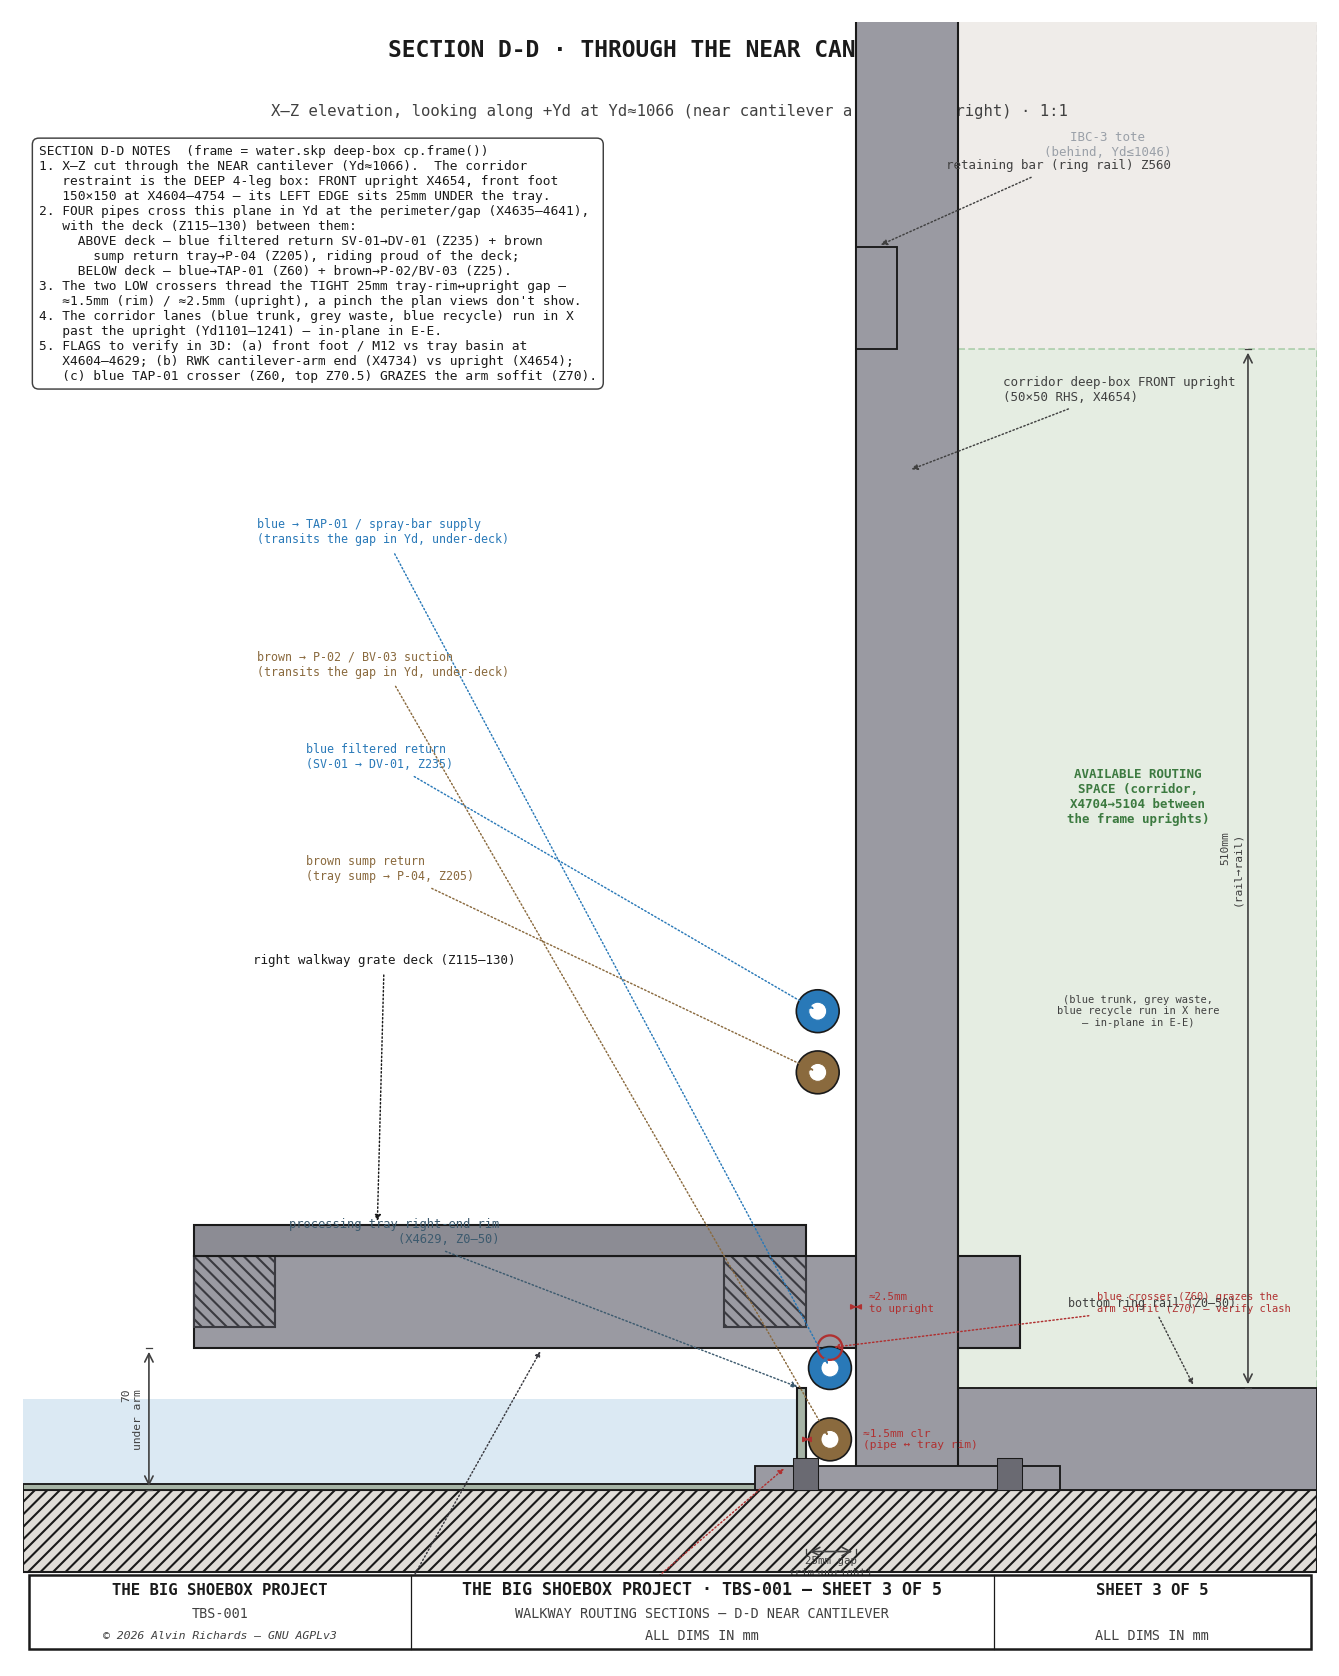
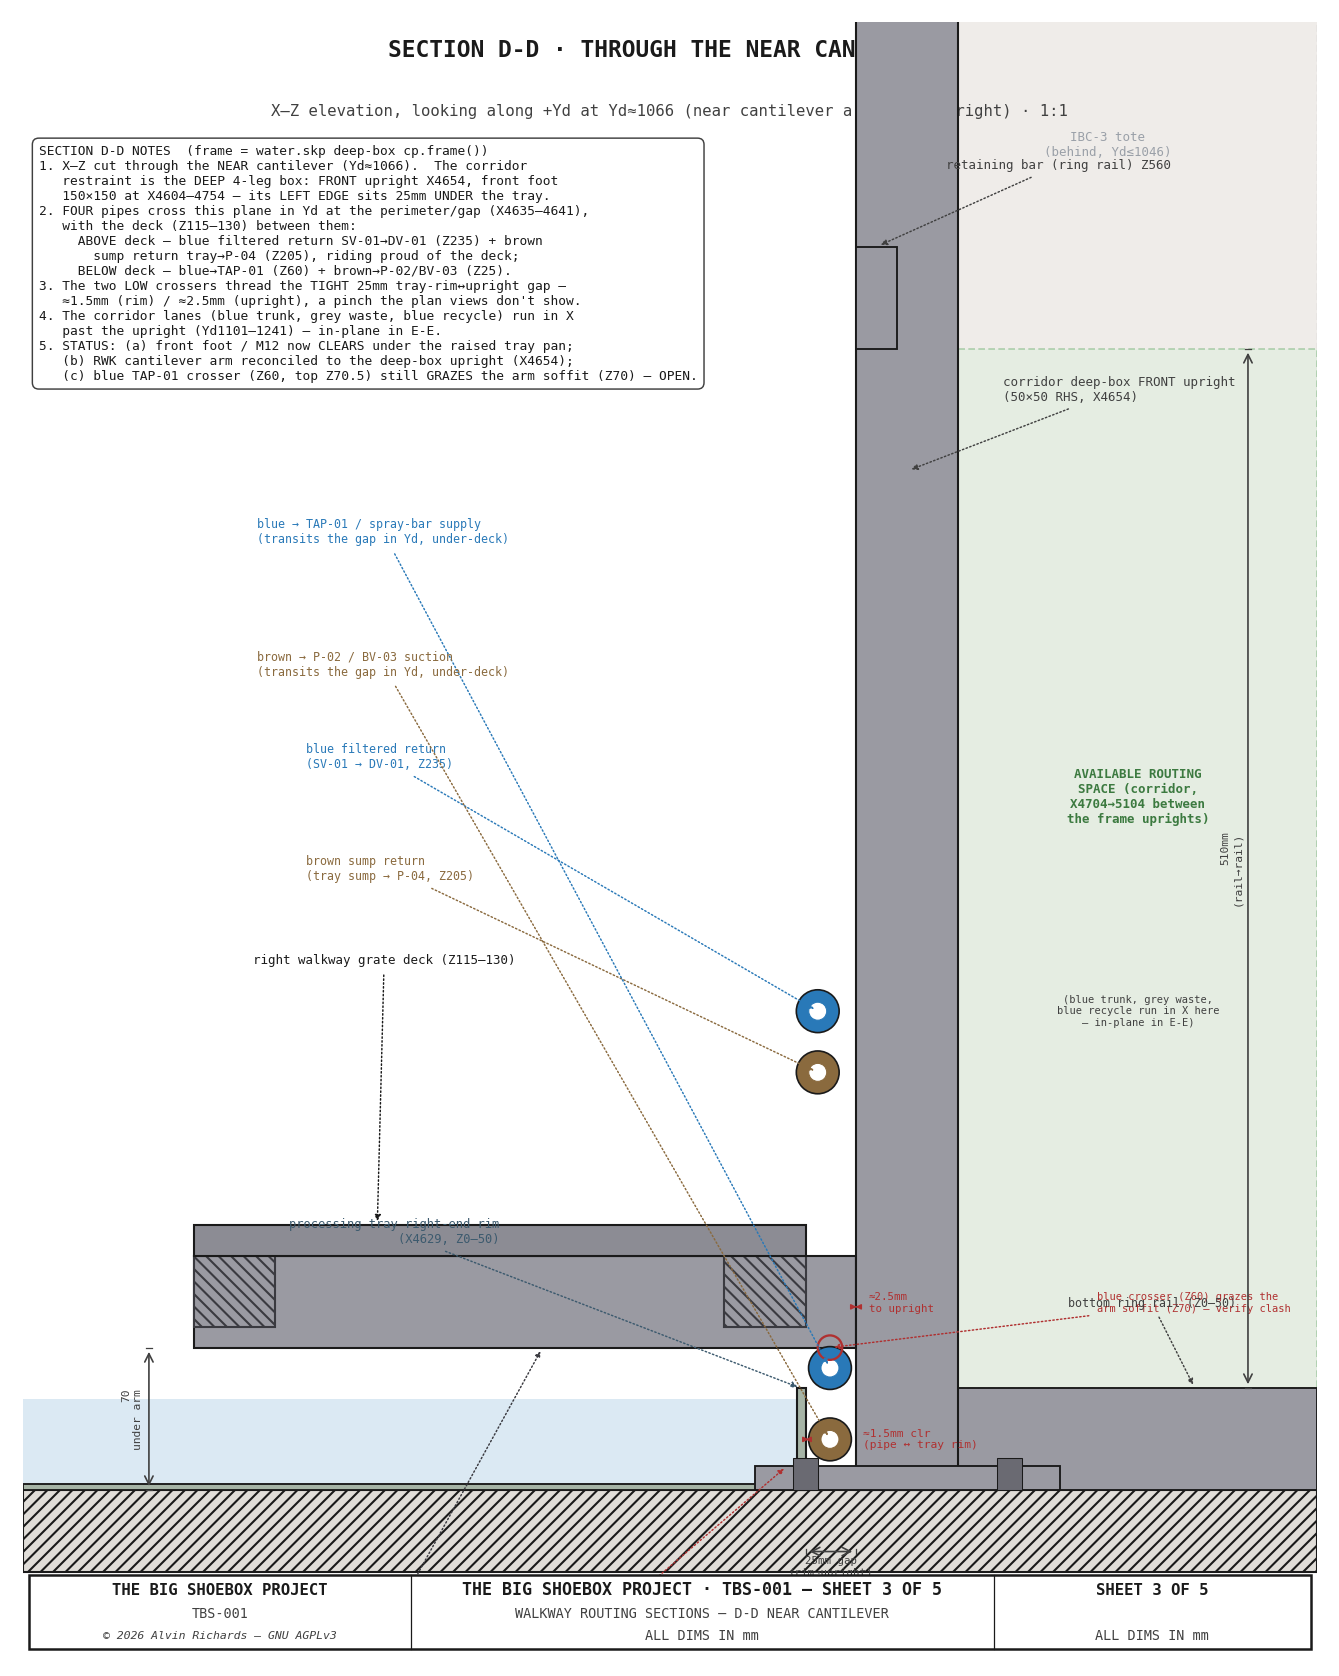
Reconcile overview + ibc-stack to the current water panels + flag 4 (RWK_X_UP)
Option B — the full water-layout + IBC-frame reconciliation.

overview + ibc-stack were rendering the OLD pre-corridor-refactor water layout (their
own equipment_panel/water_plumbing/water_hookups + hardcoded panel kit). Rewired both
generate_ruby() to REUSE the current water.skp builders (late import to break the
cycle): cp.frame / tote_restraint / rear_panel / equipment / plumbing / drains_ports +
pw.kit / other_equipment / tap01_supply. They now stay in sync with water.skp. The old
overview water functions are unused (kept for reference); ibc_rack() retained (cantilever
study still uses it). ibc-stack's stale panel-equipment label anchors removed.

Flag 4 (stale cantilever-arm reference) RESOLVED: RWK_X_UP 4734 -> 4654 (deep-box front
upright, = cp.FRONT_X). Cascaded: overview arms + walkway.skp (import RWK_X_UP),
walkway-sections D-D/F-F (ARM_X1 + notes), walkway_diagram arm root, and the X4734 refs
in equipment-layout / cantilever-study / routing-sections + the tbs_constants EQPANEL
comment. Generators verified; lint green. 2D regenerated (walkway-sections 3/5, walkway 3).

.skp re-sends pending (overview, ibc-stack, walkway). WIP on branch — do not merge.

diff --git a/src/models/generate_sketchup_model.py b/src/models/generate_sketchup_model.py
@@ -530,7 +530,7 @@ RWK_HL = 95                                           # half-lap line
 RWK_BEARER_W = 40
 RWK_BEARER_XS = (RWK_X_L, RWK_X_R - RWK_BEARER_W)      # 4329, 4589 — long-beam left edges
 RWK_BEARER_Z0 = RWK_ARM_TOP - 35                       # 80 — beam bottom
-RWK_X_UP = IBC_COL_X + 60                              # 4734 — IBC corridor upright X station
+RWK_X_UP = IBC_COL_X - 20                              # 4654 — deep-box FRONT upright (= cp.FRONT_X); reconciled from the stale +60/4734 portal (flag 4)
 RWK_UP_YDS = (CORRIDOR_YD_NEAR, CORRIDOR_YD_FAR - IBC_FRAME_RHS)   # 1046, 1266
 
 
@@ -949,15 +949,13 @@ def spray_bar():
 
 # ── Plumbing panel (pumps · filters · accumulator) ──────────────────────────
 #
-# TODO (2026-07-01): overview.skp's WATER/PLUMBING geometry is STALE — it still
-# renders the OLD pre-corridor-refactor layout.  The pinhole-wall-mount merge
-# (210f01cd, 2026-06-30) rebuilt the wet end into the split Corridor / Pinhole-Wall
-# plumbing panels in water.skp (generate_corridor_water_panel.py /
-# generate_pinhole_water_panel.py), but overview's own equipment_panel() /
-# water_hookups() / spray_bar_plumbing() / water_plumbing() were NEVER cascaded, so
-# re-sending overview reproduces the old design.  Cascade the current corridor/pinhole
-# panel layout into these functions (or import the panel builders) and re-send overview.
-# [carriage/tray-datum work of this branch left this untouched — separate task.]
+# RESOLVED (2026-07-01): overview + ibc-stack were rewired in generate_ruby() to reuse
+# the CURRENT water builders — cp.frame/tote_restraint/rear_panel/equipment/plumbing/
+# drains_ports + pw.kit/other_equipment/tap01_supply (the water.skp source) — so they
+# now render the split Corridor / Pinhole-Wall panel design and stay in sync with
+# water.skp.  The functions below (equipment_panel / water_hookups / spray_bar_plumbing
+# / water_plumbing) are the OLD pre-corridor-refactor layout and are now UNUSED (kept
+# for reference; safe to delete).  ibc_rack() is still used by the cantilever study.
 
 def equipment_panel():
     """18mm marine-ply panel in the IBC corridor carrying the wet end.
@@ -2526,6 +2524,10 @@ def water_plumbing():
 
 def generate_ruby():
     """Build the complete Ruby script for the Overview model."""
+    # Reuse the CURRENT water-system builders (water.skp source) so overview stays in
+    # sync with the corridor + pinhole-wall panel design (late import — cp/pw import ov).
+    import generate_corridor_water_panel as cp
+    import generate_pinhole_water_panel as pw
     comps = [
         component("Container Shell", "Shell", container_shell()),
         component("Walkways", "Walkways", walkways()),
@@ -2536,9 +2538,13 @@ def generate_ruby():
         component("FP Combined Corner Plates", "Combined Plate", fp_combined_corner_plates()),
         component("Panel & Pivot Axle", "Pivot Axle", panel_pivot()),
         component("Spray Bar", "Spray Bar", spray_bar()),
-        component("Plumbing Panel", "Plumbing Panel", equipment_panel()),
+        component("Corridor Frame (deep box)", "IBC Rack", cp.frame()),
+        component("IBC Tote Restraint", "IBC Rack", cp.tote_restraint()),
+        component("Corridor Rear Panel", "Plumbing Panel", cp.rear_panel()),
+        component("Corridor Equipment", "Plumbing Panel", cp.equipment()),
+        component("Pinhole-Wall Kit", "Plumbing Panel", pw.kit()),
+        component("Pinhole-Wall Equipment", "Plumbing Panel", pw.other_equipment()),
         component("IBC Stack", "IBC Stack", ibc_stack()),
-        component("IBC Rack", "IBC Rack", ibc_rack()),
         component("Light-Trap Drum", "Light Trap", light_trap_drum()),
         component("Light-Trap Bay", "Light Trap", light_trap_bay()),
         component("Electrical", "Electrical", electrical()),
@@ -2548,10 +2554,10 @@ def generate_ruby():
         component("Light Seal & Hinges", "Light Seal", light_seal()),
         component("Lighting & Wiring", "Lighting", lighting_wiring()),
         component("Evap Cooler & Duct", "Evap Cooler", evap_cooler()),
-        component("Water/Waste Hookups", "Water Hookups", water_hookups()),
+        component("Corridor Drains + X-ports", "Water Hookups", cp.drains_ports()),
         component("Fans A & B", "Fans", fans()),
-        component("Spray Bar Plumbing", "Spray Bar", spray_bar_plumbing()),
-        component("Water Plumbing", "Water Plumbing", water_plumbing()),
+        component("TAP-01 + Spray Supply", "Spray Bar", pw.tap01_supply()),
+        component("Corridor Plumbing", "Water Plumbing", cp.plumbing()),
     ]
     body = '\n'.join(comps)
 

diff --git a/src/models/generate_ibc_model.py b/src/models/generate_ibc_model.py
@@ -52,20 +52,10 @@ IBC_POINT_LABELS = [
     (5893, 1181, 2250, "X1 (fresh fill)",            1007, -400,  450),
     (5893, 1181,  400, "X3 (Brown drain-out)",       1007, -500,  -50),
     (5893, 1181,  200, "X4 (Waste drain-out)",       1007, -500, -100),
-    # ── Wet-end panel equipment (v2: panel moved FORWARD to X≈4814-4854) — pulled
-    #    out the CONTAINER (front) side, laid out the way the panel reads: two pump
-    #    columns + three filters below (no pipes/valves).  Left column (Yd 1109): ──
-    (4814, 1109, 2021, "ACC-01 (accumulator)",       -227, -1759,  329),
-    (4814, 1109, 1687, "P-04 (Tray-drain pump)",     -240, -1759,  263),
-    (4814, 1109, 1429, "P-01 (Blue-feed pump)",      -240, -1759,  121),
-    # Right column (Yd 1253):
-    (4854, 1253, 2055, "P-05 (Brown drain pump)",     260, -1903,  295),
-    (4854, 1253, 1687, "P-03 (Waste-evac pump)",      260, -1903,  263),
-    (4854, 1253, 1429, "P-02 (Brown pump)",           260, -1903,  121),
-    # Filters (centered below the pumps):
-    (4809, 1181, 1110, "F3 (GAC filter)",               5, -1831,   40),
-    (4809, 1181,  740, "F2 (5um filter)",               5, -1831,   60),
-    (4809, 1181,  370, "F1 (50um filter)",              5, -1831,   80),
+    # NB: the wet-end panel-equipment label anchors (P-01..P-05, F1-F3, ACC-01) were
+    # removed with the corridor/pinhole-panel rewire (2026-07-01) — their old positions
+    # no longer match cp.equipment()/pw.kit(). Re-anchor to the current part centers if
+    # panel-equipment callouts are wanted again.
 ]
 
 
@@ -125,13 +115,21 @@ def spray_wall_trunk():
 
 def generate_ruby():
     """Build the Ruby script for the IBC Stack model, reusing Overview parts."""
+    # Current water-system builders (water.skp source) — corridor + pinhole-wall panels
+    import generate_corridor_water_panel as cp
+    import generate_pinhole_water_panel as pw
     comps = [
         ov.component("Container (ghost)", "Context", context()),
         ov.component("IBC Tanks", "IBC Tanks", ov.ibc_stack(alpha=0.25)),
-        ov.component("IBC Frame", "IBC Frame", ov.ibc_rack()),
-        ov.component("Plumbing Panel", "Plumbing & Panel", ov.equipment_panel()),
-        ov.component("Water Plumbing", "Plumbing & Panel", ov.water_plumbing() + "\n" + spray_wall_trunk()),
-        ov.component("Water/Waste Hookups", "Plumbing & Panel", ov.water_hookups()),
+        ov.component("Corridor Frame (deep box)", "IBC Frame", cp.frame()),
+        ov.component("IBC Tote Restraint", "IBC Frame", cp.tote_restraint()),
+        ov.component("Corridor Rear Panel", "Plumbing & Panel", cp.rear_panel()),
+        ov.component("Corridor Equipment", "Plumbing & Panel", cp.equipment()),
+        ov.component("Pinhole-Wall Kit", "Plumbing & Panel", pw.kit()),
+        ov.component("Pinhole-Wall Equipment", "Plumbing & Panel", pw.other_equipment()),
+        ov.component("Corridor Plumbing", "Plumbing & Panel", cp.plumbing()),
+        ov.component("Corridor Drains + X-ports", "Plumbing & Panel", cp.drains_ports()),
+        ov.component("TAP-01 + Spray Supply", "Plumbing & Panel", pw.tap01_supply()),
         ov.component("Walkway Cantilever Arms", "Walkway Cantilever",
                      '\n'.join(ov.ibc_cantilever_arms())),
     ]

diff --git a/src/generators/generate_walkway_sections.py b/src/generators/generate_walkway_sections.py
@@ -64,7 +64,7 @@ GAPX    = PROC_TRAY_X_R + 12                  # 4641 — turn-up in the tray↔I
 # ── Cantilever-zone members (diagram-of-record detail dims, verified against live water.skp) ──
 # water.skp restraint = cp.frame() DEEP 4-leg box: FRONT upright X4654, front foot X4604-4754
 # (the foot's left edge sits 25mm UNDER the tray right edge X4629).
-ARM_X0, ARM_X1, ARM_ZB, ARM_ZT = WALKWAY_RIGHT_X, 4734, 70, 115   # RWK cantilever arm (reaches X4734)
+ARM_X0, ARM_X1, ARM_ZB, ARM_ZT = WALKWAY_RIGHT_X, 4654, 70, 115   # RWK cantilever arm — clamps to the deep-box upright X4654 (reconciled from 4734)
 UP_X0, UP_X1 = 4654, 4704            # corridor deep-box FRONT upright (50×50 RHS)
 FOOT_X0, FOOT_X1, FOOT_ZT = 4604, 4754, 12                        # front floor foot 150×150×12 — EXTENDS under the tray
 M12_XS = [4629, 4729]                # 4× M12 on 100 PCD (cx 4679 ± 50)
@@ -359,7 +359,7 @@ def sheet3():
         _rect(ax, bx, 80, BEAM_W, DECK_ZB - 80, C_STEEL, ec="#3A3A40", lw=1.0, z0=6, hatch="\\\\\\\\")
     _rect(ax, WALKWAY_RIGHT_X, DECK_ZB, WALKWAY_RIGHT_W, WALKWAY_GRATE_T, C_GRATE, lw=1.0, z0=7)  # deck
     leader(ax, 4500, ARM_ZB, 4358, -58,
-           "walkway support: cantilever arm (Z70–115)\n+ long bearers (Z80–115, hatched)\n[arm reaches X4734 — NB vs upright X4654]",
+           "walkway support: cantilever arm (Z70–115)\n+ long bearers (Z80–115, hatched)\n[arm clamps to the deep-box upright X4654]",
            color="#3A3A40", fs=5.2, ha="left", va="top", arrow_style="-|>", font=FONT)
     leader(ax, WALKWAY_RIGHT_X + 90, WALKWAY_H, 4358, 260, "right walkway grate deck (Z115–130)",
            color=C_OUT, fs=6, ha="left", va="center", arrow_style="-|>", font=FONT)
@@ -431,9 +431,9 @@ def sheet3():
         "   ≈1.5mm (rim) / ≈2.5mm (upright), a pinch the plan views don't show.\n"
         "4. The corridor lanes (blue trunk, grey waste, blue recycle) run in X\n"
         "   past the upright (Yd1101–1241) — in-plane in E-E.\n"
-        "5. FLAGS to verify in 3D: (a) front foot / M12 vs tray basin at\n"
-        "   X4604–4629; (b) RWK cantilever-arm end (X4734) vs upright (X4654);\n"
-        "   (c) blue TAP-01 crosser (Z60, top Z70.5) GRAZES the arm soffit (Z70)."
+        "5. STATUS: (a) front foot / M12 now CLEARS under the raised tray pan;\n"
+        "   (b) RWK cantilever arm reconciled to the deep-box upright (X4654);\n"
+        "   (c) blue TAP-01 crosser (Z60, top Z70.5) still GRAZES the arm soffit (Z70) — OPEN."
     )
     ax.text(X_LO + 8, Z_HI - 60, notes, fontsize=6.2, ha="left", va="top", color=C_OUT,
             family="monospace", zorder=15,

diff --git a/src/generators/tbs_constants.py b/src/generators/tbs_constants.py
@@ -397,7 +397,7 @@ MRBF_D, MRBF_H = 40, 38  # terminal-mount MRBF main fuse (on the battery + post)
 # Contains pumps (P-01, P-02, P-04), ACC-01, and 3× Big Blue filter housings.
 # Pumps on near-wall side (Yd=1046–1173), filters on far-wall side (Yd=1186–1316).
 # Filters at bottom of panel (Z=200–1280), pumps at top (Z=1320–2220).
-EQPANEL_X       = 4874    # panel face X (mm) — ibc-reconfig-v2: moved FORWARD (was 5240) to the corridor front for walkway/operator reach-in access; ply X=4874–4892, equipment hangs toward -X (tip ~4744, clear of the film rail X=4649). Mounts on the front-portal frame (~X4734).
+EQPANEL_X       = 4874    # panel face X (mm) — ibc-reconfig-v2: moved FORWARD (was 5240) to the corridor front for walkway/operator reach-in access; ply X=4874–4892, equipment hangs toward -X (tip ~4744, clear of the film rail X=4649). Mounts on the deep-box corridor frame (front upright ~X4654).
 EQPANEL_T       = 18      # panel thickness in X (mm) — ply extends toward sealed end (X=4874–4892)
 EQPANEL_Z_LO    = 250     # panel bottom Z (mm) — keeps ~120mm above the raised walkway deck [+50 raise; was 200]
 EQPANEL_Z_HI    = 2310    # panel top Z (mm) — in the plumbing corridor (no totes there), below ceiling (2388); IBC stack is 2336mm in the flanking columns

diff --git a/src/generators/generate_walkway_diagram.py b/src/generators/generate_walkway_diagram.py
@@ -1110,8 +1110,8 @@ def sheet3():
     WK_L_X    = WALKWAY_RIGHT_X               # 4329 — left long beam
     WK_R_X    = WALKWAY_RIGHT_X + WALKWAY_W   # 4629 — right long beam
     WALL_X    = RAIL_X_R                      # 4649 — right side-wall station (film rail / combined plate)
-    UP_X0     = IBC_COL_X                     # 4674 — IBC corridor upright near X
-    ARM_X     = IBC_COL_X + 60                # 4734 — arm root station
+    UP_X0     = IBC_COL_X - 20                # 4654 — deep-box FRONT upright (arm clamps here; reconciled from tote-col 4674)
+    ARM_X     = IBC_COL_X - 20                # 4654 — arm root station (= RWK_X_UP; reconciled from 4734)
     UP_YDS    = [(CORRIDOR_YD_NEAR, CORRIDOR_YD_NEAR + IBC_FRAME_RHS),  # near upright 1046–1096
                  (CORRIDOR_YD_FAR - IBC_FRAME_RHS, CORRIDOR_YD_FAR)]     # far  upright 1266–1316
     ARM_YDS   = [yc + IBC_FRAME_RHS / 2 for (yc, _) in UP_YDS]           # arm centerlines

diff --git a/right-walkway-cantilever-study.md b/right-walkway-cantilever-study.md
@@ -28,12 +28,12 @@ Plus a **45mm gap (X4629–4674)** between the tray's right edge and the IBC fra
 
 *As-built (rev12): refined into a closed cantilever rectangle — see [Walkway Report §4](walkway-report.md). The support strategy below is what was built: cantilever off the IBC frame + wall anchors, no ceiling rods.*
 
-The IBC stacking frame only has uprights at the **corridor (Yd 1046 / 1266, at X4734)** — there is **nothing at the perimeter (Yd0 / 2362)** to bolt to. So the support is split:
+The IBC stacking frame only has uprights at the **corridor (Yd 1046 / 1266, at X4654)** — there is **nothing at the perimeter (Yd0 / 2362)** to bolt to. So the support is split:
 
-- **2 inner cantilever arms** — off the **IBC corridor uprights** (X4734). A U-clamp grips each upright with 2× M12; the arm (40×45 SHS) reaches ~405mm back to the deck's left edge (X4329).
+- **2 inner cantilever arms** — off the **IBC corridor uprights** (X4654, deep-box front upright). A U-clamp grips each upright with 2× M12; the arm (40×45 SHS) reaches ~405mm back to the deck's left edge (X4329).
 - **2 outer wall-mounted ledgers** — on the **near (Yd0) and far (Yd2362) container walls**, each **through-bolted** (interior + exterior plate, 2 bolts) at 2 X stations along the deck width. These carry the deck's ends, where the frame can't reach.
 - **2 longitudinal bearers** (Yd-running, at X4329 + X4629) ride the arms + ledgers; the grate spans the ≤1,046mm between supports.
-- All members sit at **Z70–115** — 10mm above the spray bar (Z60), below the film frame (Z150). **No ceiling rods. Nothing into the tray. Nothing in the optical band above the deck.**
+- All members sit at **Z70–115** — ~10mm above the spray-bar top at the (low-side) cantilever stations, below the film frame (Z150). **No ceiling rods. Nothing into the tray. Nothing in the optical band above the deck.**
 
 3D study model: `src/models/generate_right_cantilever_study.py` (scenes: Combined / **Anchors (frame + walls)** / Clearance / Labeled — the Anchors scene shows both the upright U-clamps and the wall ledgers).
 

diff --git a/equipment-layout-report.md b/equipment-layout-report.md
@@ -119,7 +119,7 @@ only restrains them for transport (front retaining bars + D-ring lashing).
 |------|--------------|
 | Frame material | 50×50×3mm RHS mild steel |
 | Frame type | RESTRAINT-ONLY single **front portal** — the 1,000L caged totes direct-stack cage-on-cage (no load-bearing deck), so the frame only restrains them |
-| Uprights | 2 full-height corridor uprights (Yd 1046/1266) at the IBC front (X≈4734) on 150×150×12mm floor flange feet (4× M12 each); define the 270mm plumbing corridor |
+| Uprights | 2 full-height corridor uprights (Yd 1046/1266) at the IBC front (X≈4654, deep-box front upright) on 150×150×12mm floor flange feet (4× M12 each); define the 270mm plumbing corridor |
 | Front retaining bars | 4× 50×20×3 RHS at the IBC front (Z560 + Z1760), seated in the 25mm gap to the film rail — stop the totes sliding out the front; each bar's wall end drops into a Simpson-style joist hanger (×4) |
 | Wall attachment | each joist hanger is through-bolted (4× M12) to a 100×135×8mm **exterior** backing plate (×4, hex heads outside) that spreads the load into the thin corrugated side wall |
 | Lashing points | 25mm D-ring holders on the front bars (1,100kg WLL); ratchet straps pass over each stack and tie down to them |

diff --git a/walkway-routing-sections.md b/walkway-routing-sections.md
@@ -112,7 +112,6 @@ shrink (branch `water-walkway-integration`):
 3. **Front foot + M12 anchor under the tray basin** — **RESOLVED.** The tray‑datum correction
    raises the welded pan onto the shim ramp (floor bottom ≈ Z23–24 at the corridor foot stations),
    so the 12 mm front foot now clears **~11 mm** *under* the pan (see G‑G). No foot change needed.
-4. **Stale cantilever‑arm reference** — *OPEN.* The right‑walkway cantilever arm still reaches
-   X4734 (`RWK_X_UP`); the settled datum is the deep‑box front upright at X4654. Reconciling the
-   arm's attachment (and the OVERVIEW `ibc_rack` X4734 vs WATER deep‑box X4654 mismatch) is a
-   separate structural follow‑up.
+4. **Stale cantilever‑arm reference** — **RESOLVED.** `RWK_X_UP` reconciled 4734 → **X4654**
+   (the deep‑box front upright); overview's `ibc_rack` retired in favor of `cp.frame()`, so
+   overview / ibc-stack / walkway now clamp the arm to the same X4654 upright.
